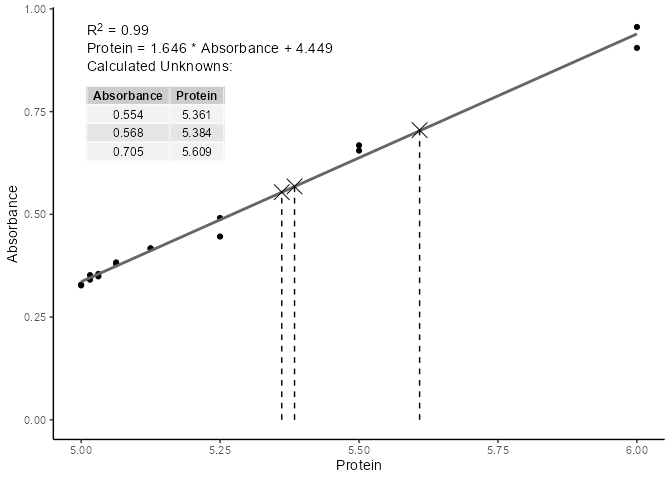
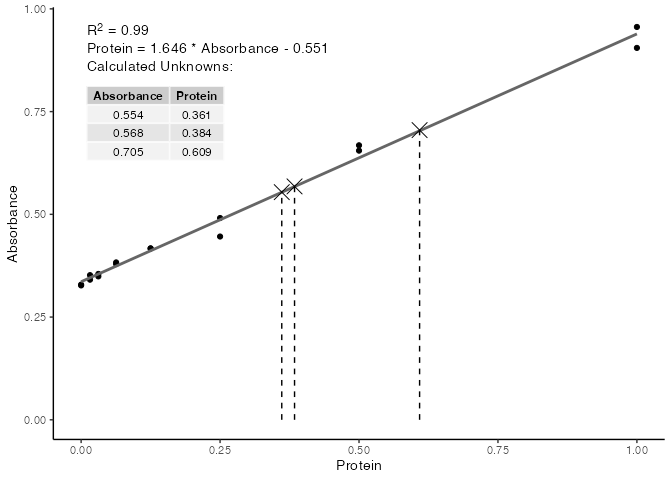
updated README slightly

diff --git a/README.md b/README.md
@@ -38,7 +38,7 @@ abs <- c(0.329, 0.352, 0.349, 0.379, 0.417, 0.491, 0.668, 0.956,
          0.327, 0.341, 0.355, 0.383, 0.417, 0.446, 0.655, 0.905)
 
 data <- data.frame(
-  Protein = prot + 5, 
+  Protein = prot, 
   Absorbance = abs
 )
 
